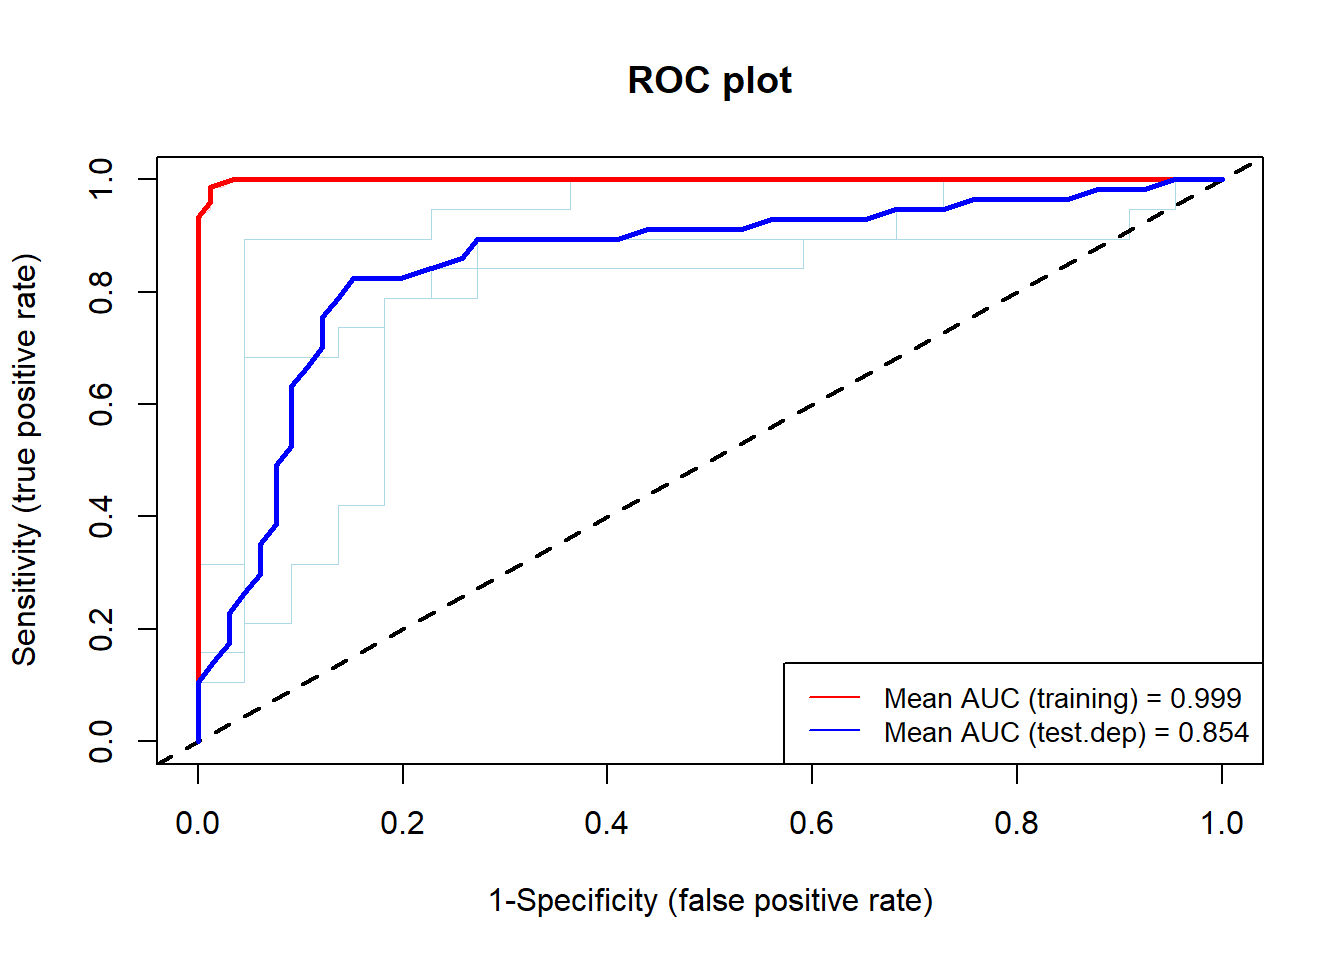
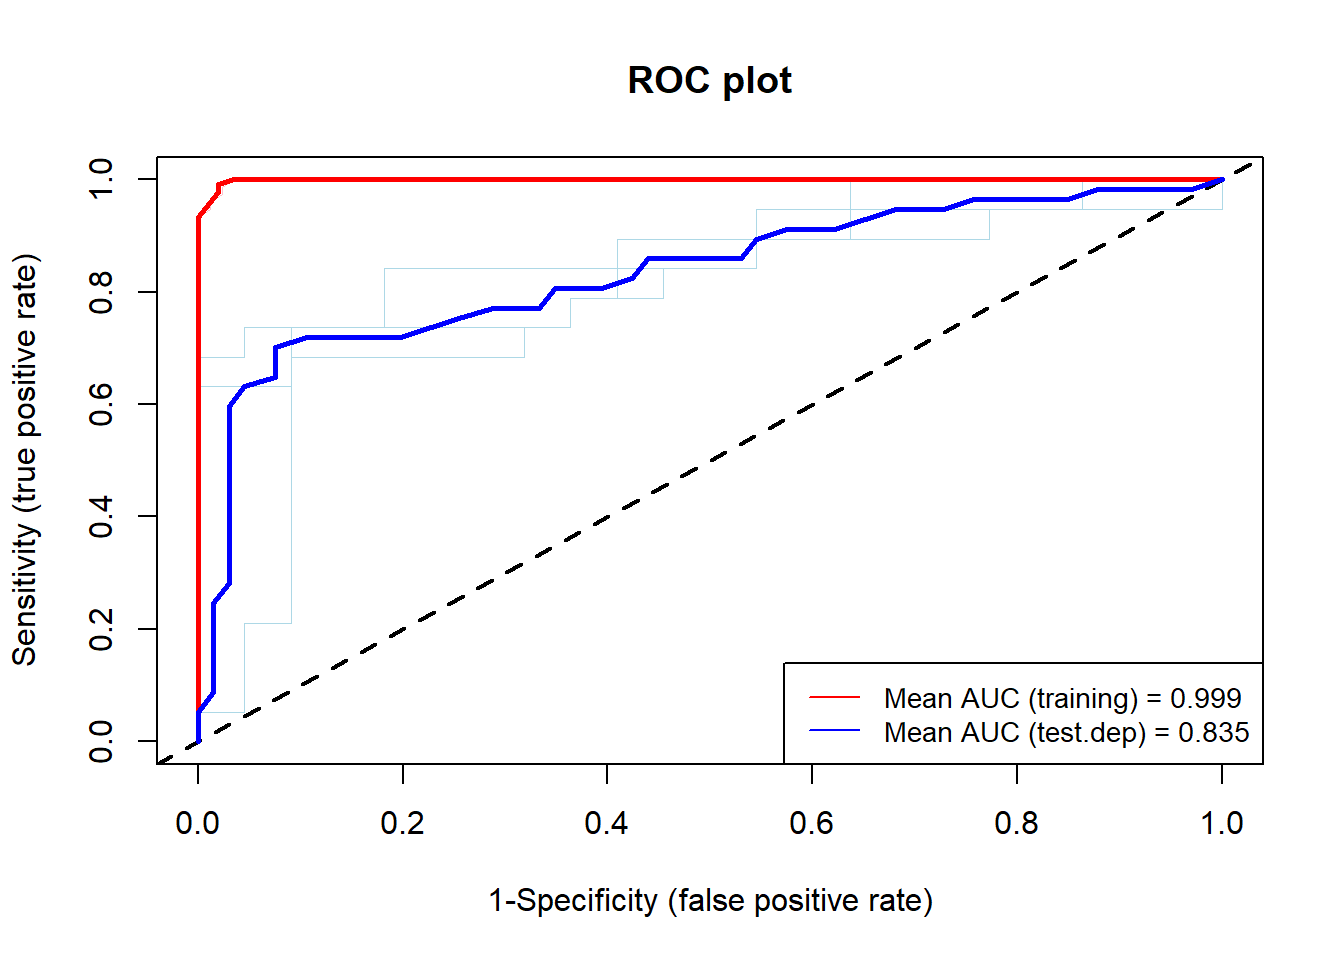
Simple sdm workflow

diff --git a/_site/index.html b/_site/index.html
@@ -271,7 +271,7 @@ window.Quarto = {
 <pre><code>terra 1.8.86</code></pre>
 </div>
 <div class="cell-output cell-output-stderr">
-<pre><code>sdm 1.2-67 (2025-09-24)</code></pre>
+<pre><code>sdm 1.2-59 (2025-07-13)</code></pre>
 </div>
 </div>
 </section>
@@ -357,7 +357,7 @@ feature names                         :  elevation, precipitation, temperature, 
 type                                  :  Presence-Absence 
 has independent test data?             :  FALSE 
 number of records                     :  200 
-has coordinates?                      :  TRUE </code></pre>
+has Coordinates?                      :  TRUE </code></pre>
 </div>
 </div>
 <p>The <span class="math inline">\(d\)</span> object tells us information like number of species in our data set, the name of the species, number of features (predictor variables) and their names, type of the data such as presence-absence or presence-only or presence-background, whether we have separate/independent test data, number of records and whether they have coordinates. This is the data we supply to the <code>sdm</code> function to train the model.</p>
@@ -383,7 +383,7 @@ number of modelling methods           :  1
 names of modelling methods            :  rf 
 replicate.methods (data partitioning) :  subsampling 
 number of replicates (each method)    :  3 
-total number of replicates per model  :  3 (per species) 
+toral number of replicates per model  :  3 (per species) 
 test percentage (in subsampling)      :  20 
 ------------------------------------------
 model run success percentage (per species)  :
@@ -399,9 +399,9 @@ model Mean performance (per species), using test dataset (generated using partit
  ## species   :  Occurrence 
 =========================
 
-methods    :     AUC     |     COR     |     TSS     |  Deviance 
+methods    :     AUC     |     COR     |     TSS     |     Deviance 
 -------------------------------------------------------------------------
-rf         :     0.85    |     0.68    |     0.7     |     1        </code></pre>
+rf         :     0.83    |     0.62    |     0.65    |     1        </code></pre>
 </div>
 </div>
 </section>
@@ -446,6 +446,12 @@ Attaching package: 'ggplot2'</code></pre>
 <div class="cell-output cell-output-stdout">
 <pre><code>The id argument is not specified; The modelIDs of 3 successfully fitted models are assigned to id...! </code></pre>
 </div>
+<div class="cell-output cell-output-stderr">
+<pre><code>Warning: Using `size` aesthetic for lines was deprecated in ggplot2 3.4.0.
+ℹ Please use `linewidth` instead.
+ℹ The deprecated feature was likely used in the sdm package.
+  Please report the issue to the authors.</code></pre>
+</div>
 <div class="cell-output-display">
 <div id="fig-fig3" class="quarto-float quarto-figure quarto-figure-center anchored">
 <figure class="quarto-float quarto-float-fig figure">
@@ -471,7 +477,7 @@ Figure&nbsp;4: Response curve of the species
 </div>
 <p>To see which of the predictor variables was most important for defining the niche of the species, we can use getVarImp function as follows:</p>
 <div class="cell">
-<div class="sourceCode cell-code" id="cb21"><pre class="sourceCode numberSource r number-lines code-with-copy"><code class="sourceCode r"><span id="cb21-1"><a href="#cb21-1"></a><span class="fu">plot</span>(<span class="fu">getVarImp</span>(m))</span></code><button title="Copy to Clipboard" class="code-copy-button"><i class="bi"></i></button></pre></div>
+<div class="sourceCode cell-code" id="cb22"><pre class="sourceCode numberSource r number-lines code-with-copy"><code class="sourceCode r"><span id="cb22-1"><a href="#cb22-1"></a><span class="fu">plot</span>(<span class="fu">getVarImp</span>(m))</span></code><button title="Copy to Clipboard" class="code-copy-button"><i class="bi"></i></button></pre></div>
 <div class="cell-output cell-output-stdout">
 <pre><code>
 The variable importance for all the models are combined (averaged)... </code></pre>
@@ -493,10 +499,10 @@ Figure&nbsp;5: Variable importance for the species
 </section>
 <section id="predict" class="level2" data-number="1.8">
 <h2 data-number="1.8" class="anchored" data-anchor-id="predict"><span class="header-section-number">1.8</span> Predict</h2>
-<p>Finally, the end game is to make prediction of habitat suitability of the species over the geographic space. Here we feed all the predictor variables to the model and get a continuous habitat suitability map as follows:</p>
+<p>Finally, the end game is to make prediction of habitat suitability of the species over the geographic space. Here we feed all the predictor variables to the model in order to get a continuous habitat suitability map as follows:</p>
 <div class="cell">
-<div class="sourceCode cell-code" id="cb23"><pre class="sourceCode numberSource r number-lines code-with-copy"><code class="sourceCode r"><span id="cb23-1"><a href="#cb23-1"></a>p <span class="ot">&lt;-</span> <span class="fu">predict</span>(<span class="at">object =</span> m, preds, <span class="at">mean =</span> <span class="cn">TRUE</span>)</span>
-<span id="cb23-2"><a href="#cb23-2"></a><span class="fu">plot</span>(p)</span></code><button title="Copy to Clipboard" class="code-copy-button"><i class="bi"></i></button></pre></div>
+<div class="sourceCode cell-code" id="cb24"><pre class="sourceCode numberSource r number-lines code-with-copy"><code class="sourceCode r"><span id="cb24-1"><a href="#cb24-1"></a>p <span class="ot">&lt;-</span> <span class="fu">predict</span>(<span class="at">object =</span> m, preds, <span class="at">mean =</span> <span class="cn">TRUE</span>)</span>
+<span id="cb24-2"><a href="#cb24-2"></a><span class="fu">plot</span>(p)</span></code><button title="Copy to Clipboard" class="code-copy-button"><i class="bi"></i></button></pre></div>
 <div class="cell-output-display">
 <div id="fig-fig5" class="quarto-float quarto-figure quarto-figure-center anchored">
 <figure class="quarto-float quarto-float-fig figure">
